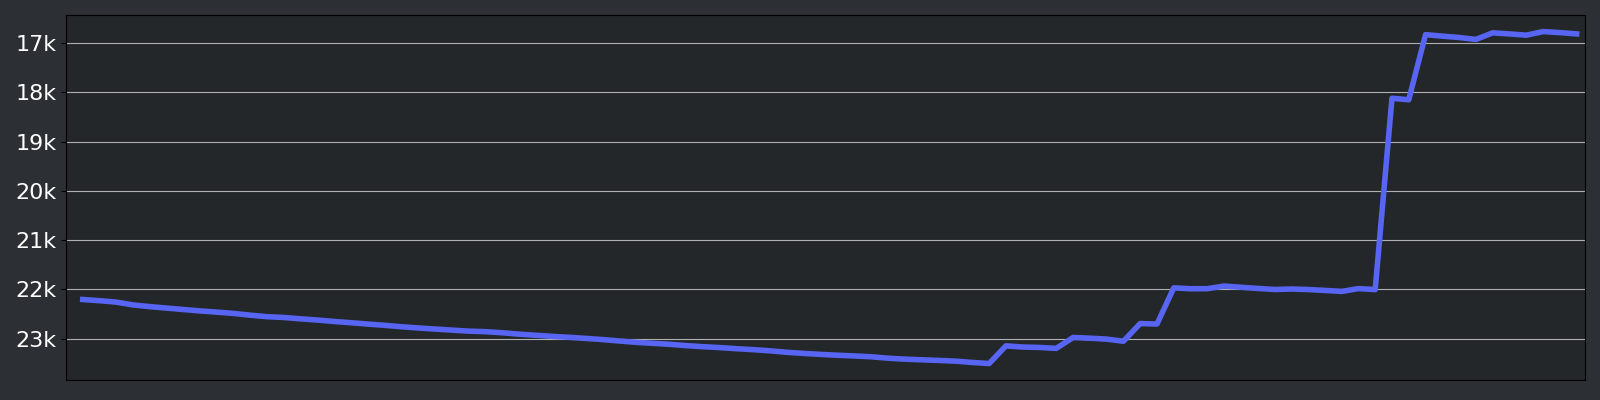
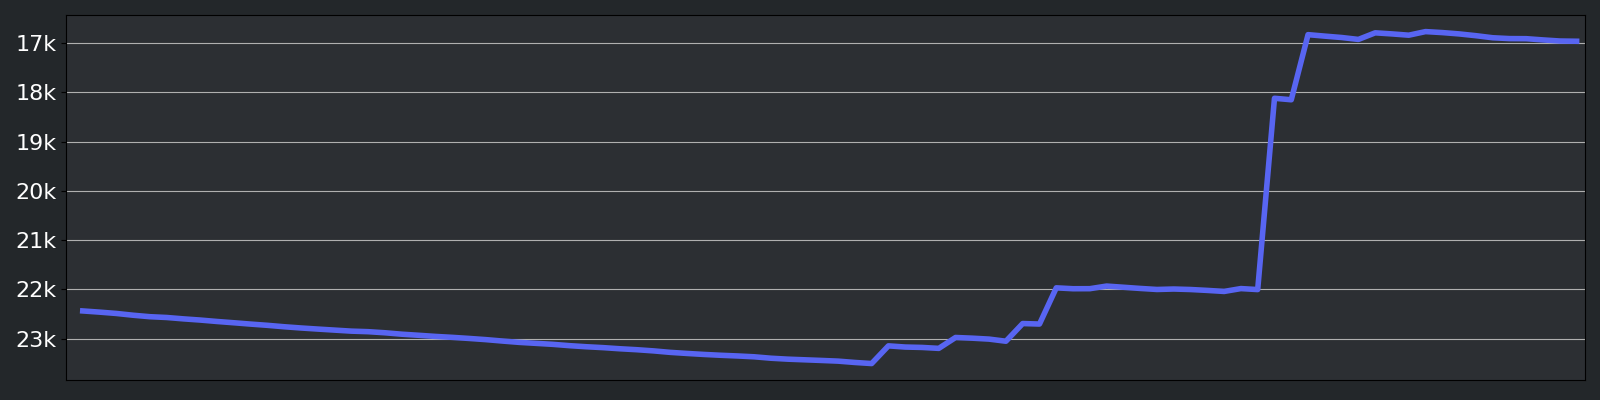
peppy timestamp
created_at timestamp,
nouvelle: "%Y-%m-%dT%H:%M:%SZ"
ancienne: "%Y-%m-%dT%H:%M:%S+00:00"

Changed region(s): [[0.6562, 0.06, 1.0, 0.81], [0.0312, 0.72, 0.7188, 0.93]]

diff --git a/OsuRank/utils/utils.py b/OsuRank/utils/utils.py
@@ -85,7 +85,7 @@ class generate_embed_score:
         self.avatar_url = self.user.get('avatar_url')
         
         # score data
-        self.created_at = datetime.datetime.strptime(self.score.get('created_at'), "%Y-%m-%dT%H:%M:%S+00:00")
+        self.created_at = datetime.datetime.strptime(self.score.get('created_at'), "%Y-%m-%dT%H:%M:%SZ") # old: "%Y-%m-%dT%H:%M:%S+00:00"
         self.stats = score.get('statistics')
         self.emote_rank = emotes.get(self.score.get("rank"))
         self.mods = score.get('mods')
@@ -300,13 +300,13 @@ def get_courbe(rank_history: list):
 
     fig, ax = plt.subplots()
     ax.plot(x, y, "#5865F2", linewidth=4)
-    ax.set_facecolor('#23272A') # 2C2F33
+    ax.set_facecolor('#2C2F33') # 2C2F33
     ax.invert_yaxis()
     ax.get_xaxis().set_visible(False)
     ax.yaxis.set_major_formatter(StrMethodFormatter('{x:n}k'))
     ax.grid()
 
-    fig.patch.set_facecolor('#2C2F33') # 23272A
+    fig.patch.set_facecolor('#23272A') # 23272A
     fig.set_figwidth(16)
     fig.set_figheight(4)
 
